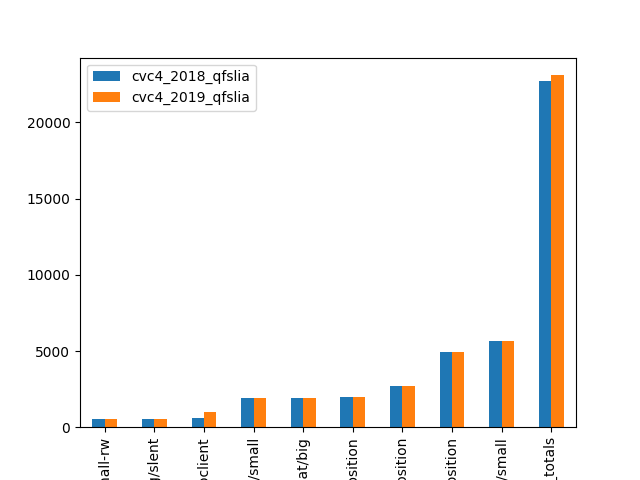
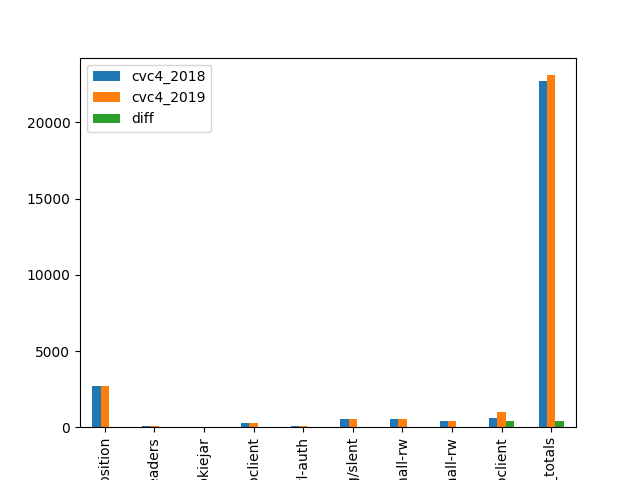
.

diff --git a/PI-Aug-2019-stats/scripts/gen_plots.py b/PI-Aug-2019-stats/scripts/gen_plots.py
@@ -3,6 +3,19 @@ import matplotlib.pyplot as plt
 import sys
 import os
 
+def new_names(columns):
+    result = []
+    for c in columns:
+        if "cvc4_2018" in c:
+            result.append("cvc4_2018")
+        elif "cvc4_2019" in c:
+            result.append("cvc4_2019")
+        elif "yices" in c:
+            result.append("yices")
+        else:
+            result.append(c)
+    return result
+
 def to_int(x):
     try:
         result = int(x)
@@ -13,17 +26,24 @@ def to_int(x):
             return x
     return result
 
+def gen_diff(d): 
+    if "yices" in d.columns:
+        return abs(data["cvc4_2019"] - data["yices"])
+    else:
+        return abs(data["cvc4_2019"] - data["cvc4_2018"]) 
+
 assert(len(sys.argv) >= 3)
 cluster_csv_dir = sys.argv[1]
 destination_csv_dir = sys.argv[2]
 for csv_file in os.listdir(cluster_csv_dir):
     data = ps.read_csv(cluster_csv_dir + "/" + csv_file)
     data = data.applymap(to_int)
-    data.sort_values(data.columns[-1],inplace=True)
+    data.columns = new_names(data.columns)
+    data["diff"] = gen_diff(data)
+    data.sort_values("diff", inplace=True)
     data = data.tail(10)
     print(data)
     p = data.plot(kind='bar', x="DIRECTORY")
     f = p.get_figure()
     f.savefig('/home/yoniz/git/hermes/PI-Aug-2019-stats/plots/' + csv_file + '.png')
-    print("panda")
 
